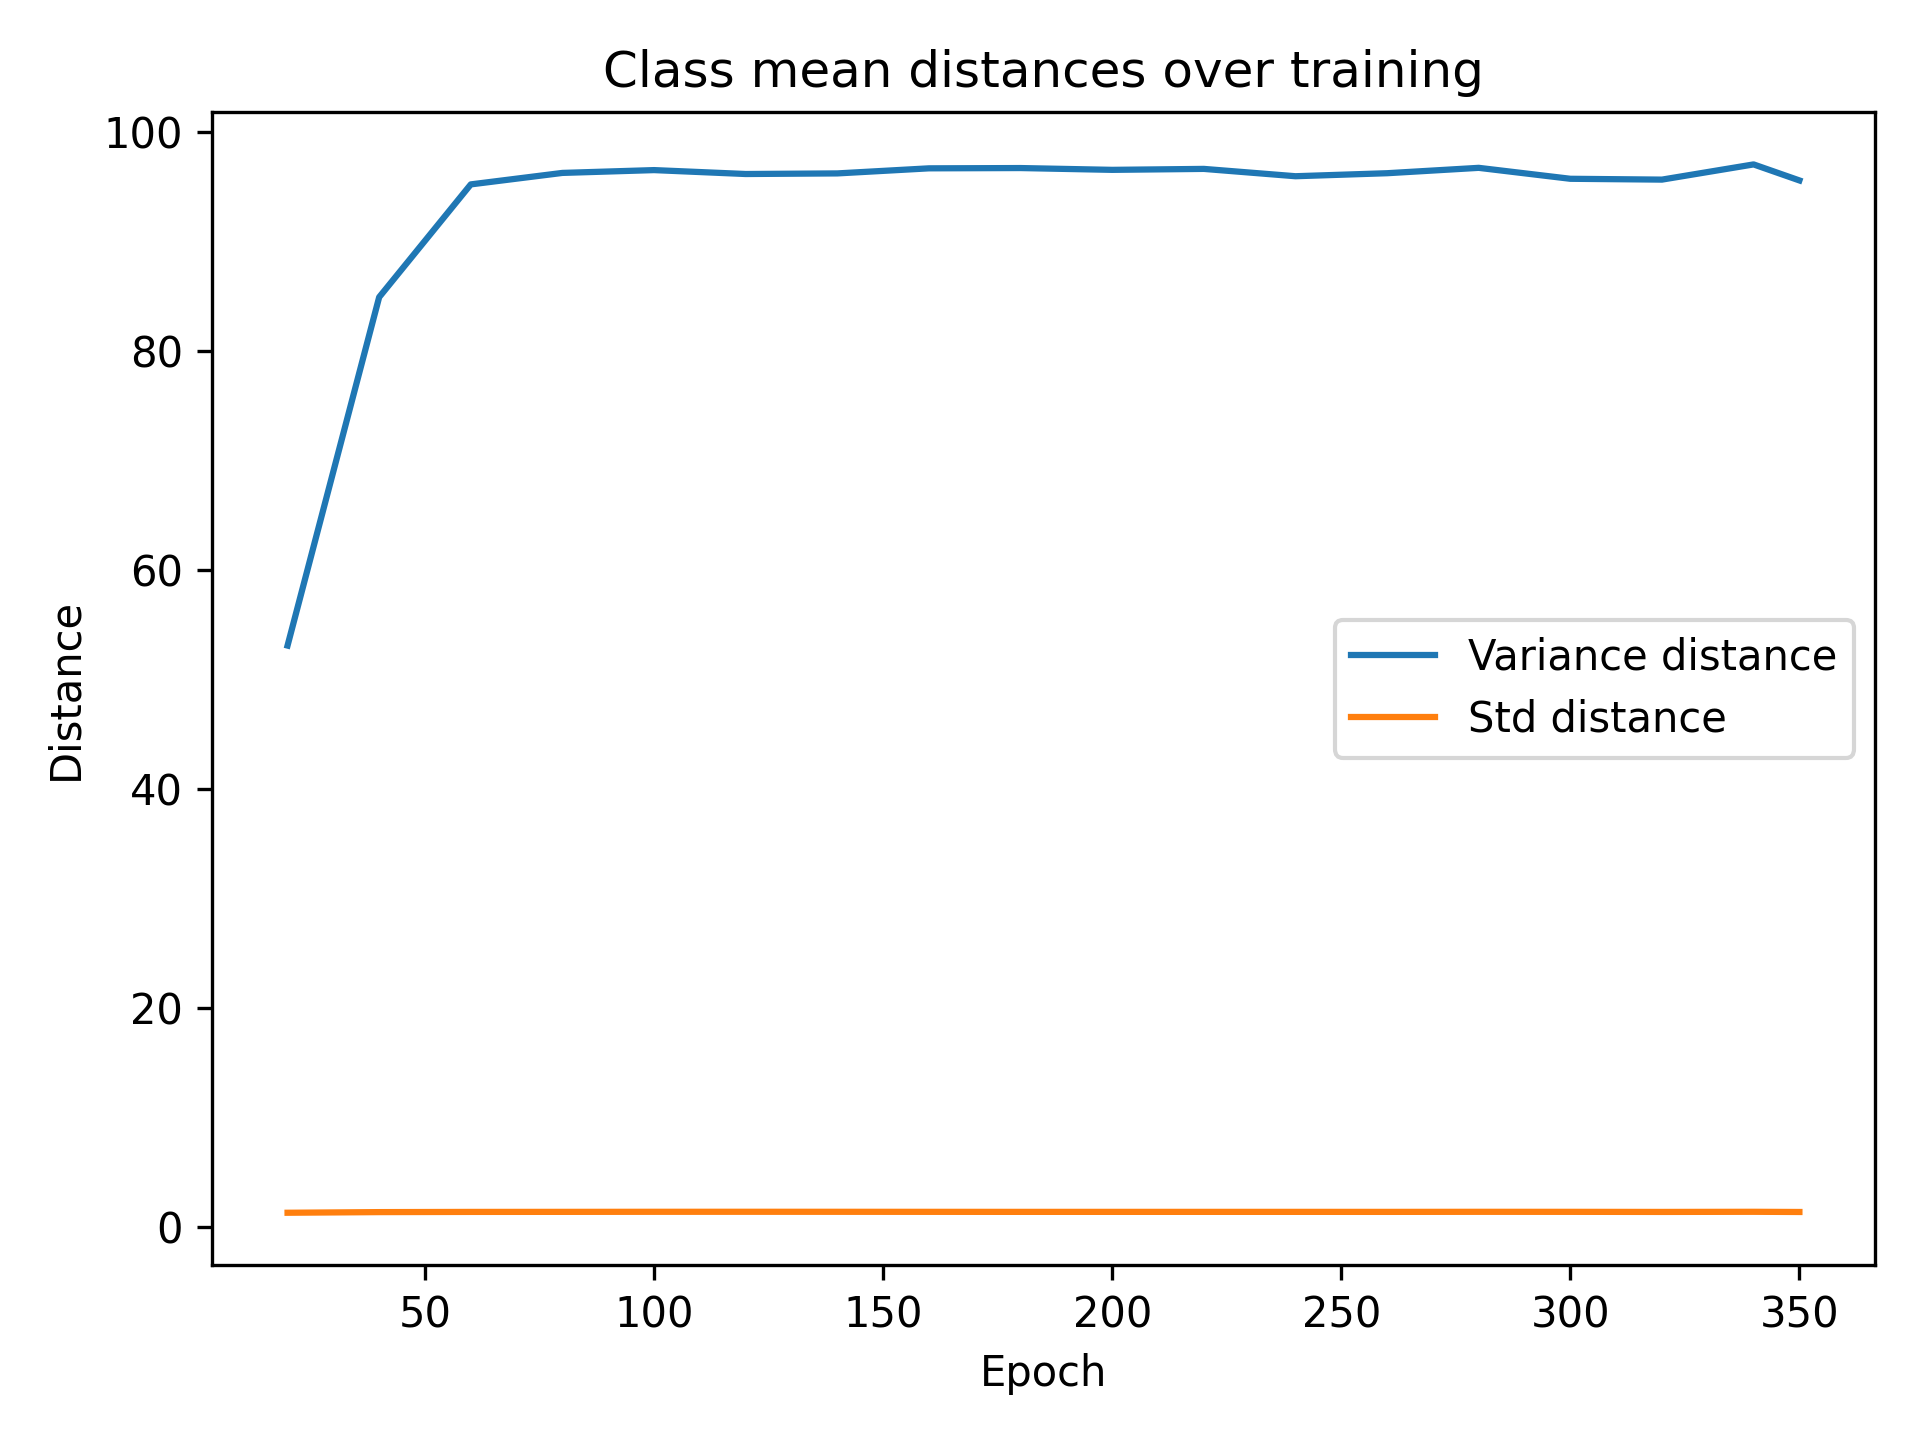
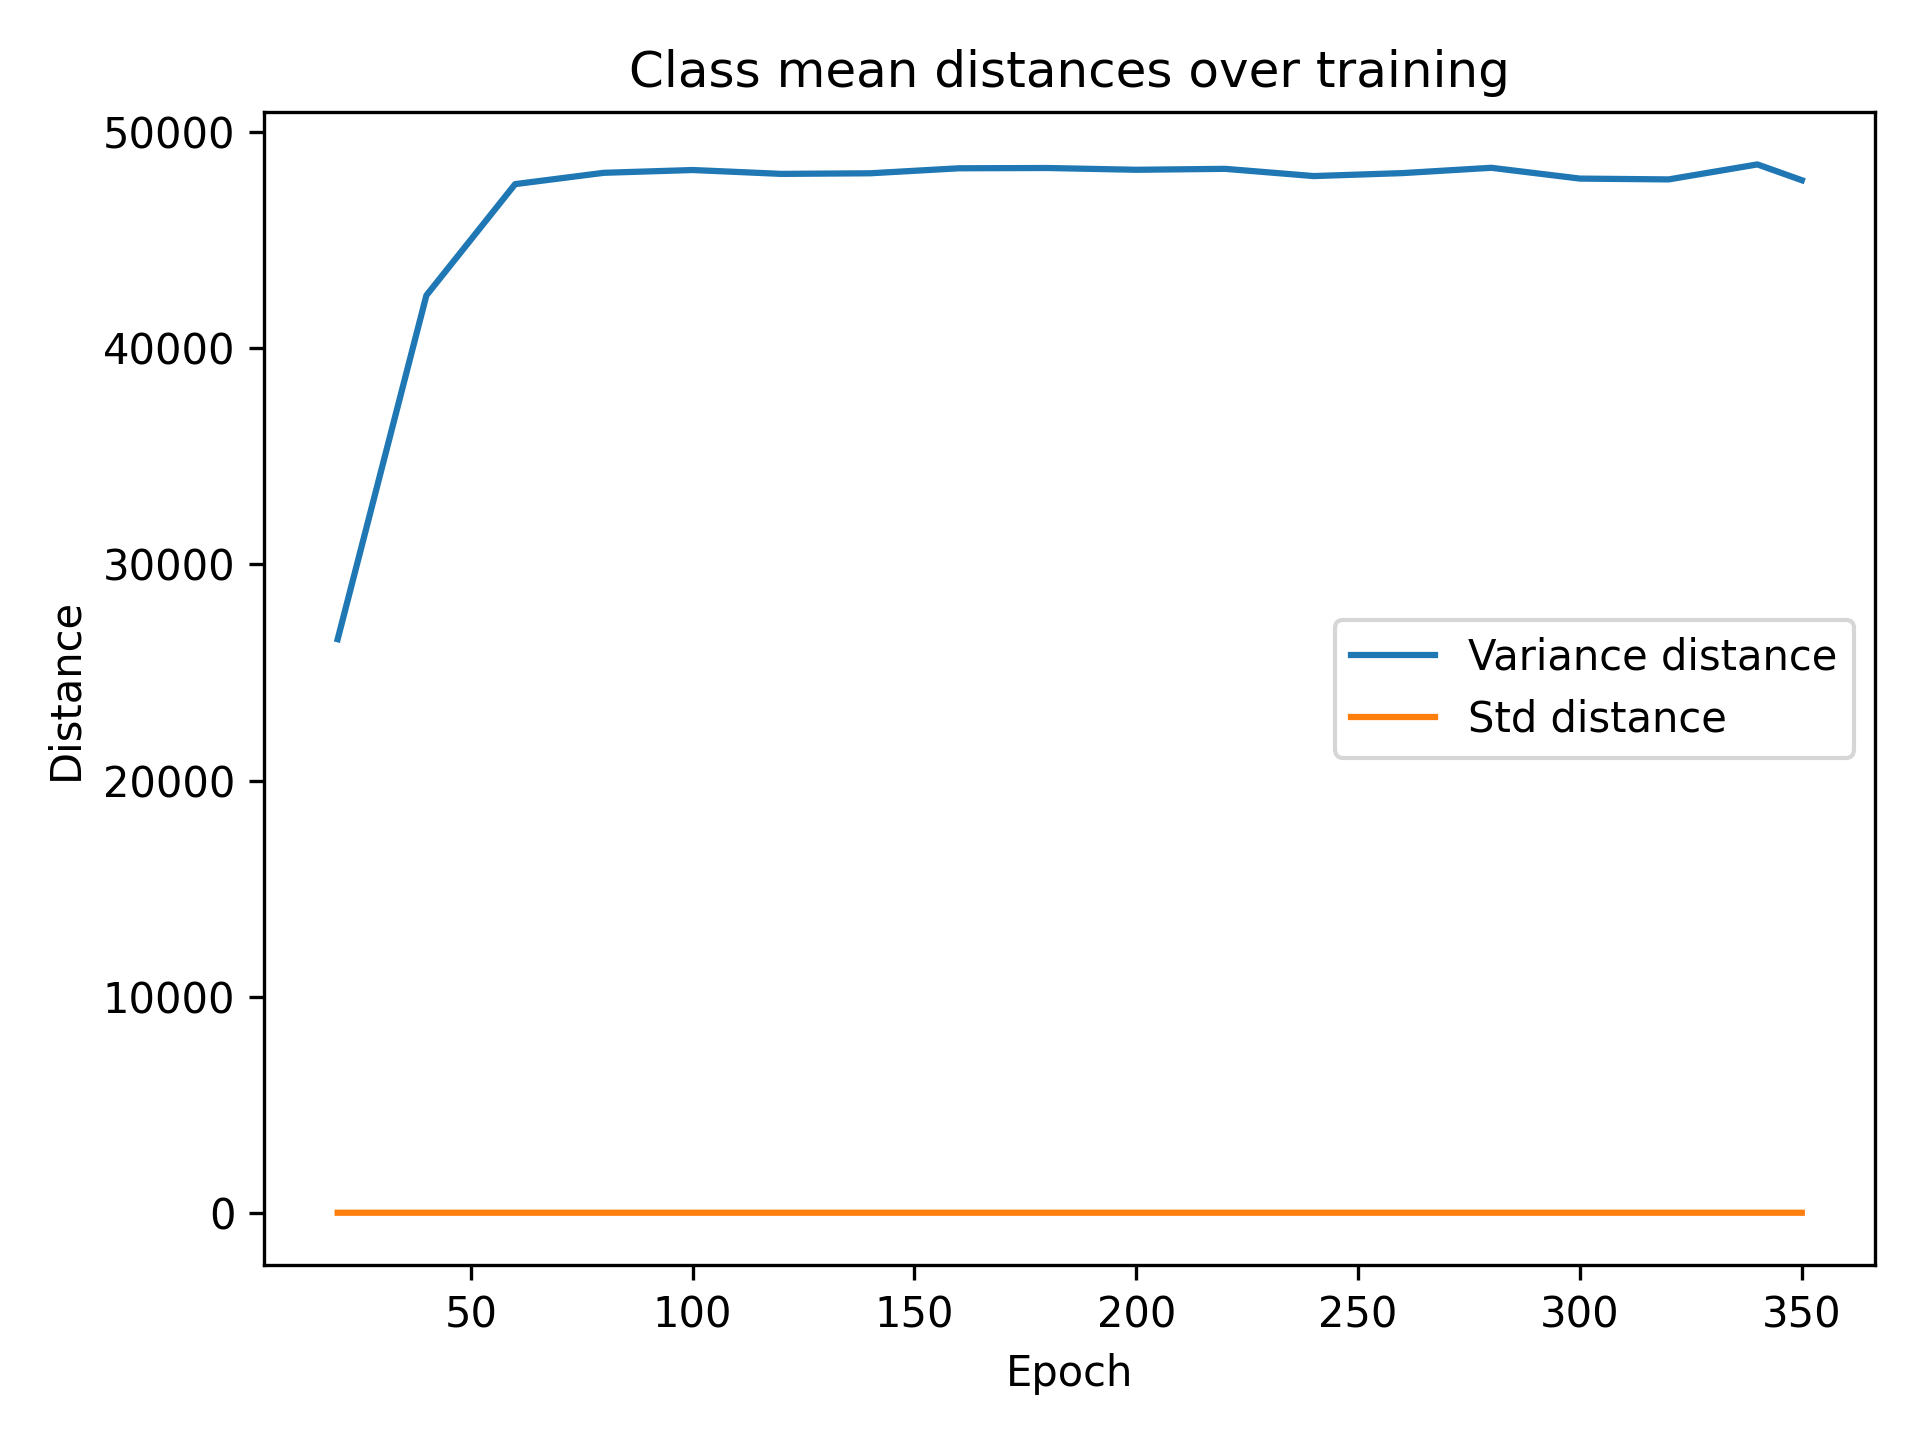
try fix: metrics

diff --git a/src/analyse.py b/src/analyse.py
@@ -38,10 +38,15 @@ epochs = []
 checkpoint_folder = "src/checkpoints"
 cp_file_names = os.listdir(checkpoint_folder)
 
-print(cp_file_names)
+print(f"Found {len(cp_file_names)} checkpoint files")
+print("="*80)
+
 distance_means_dict = {}
 std_means_dict = {}
 wt_class_var = {}
+mean_distances_dict = {}
+min_distances_dict = {}
+max_distances_dict = {}
 
 for cp_file in cp_file_names:
     checkpoint_file = os.path.join(checkpoint_folder, cp_file)
@@ -61,8 +66,11 @@ for cp_file in cp_file_names:
             labels_list.append(y)
 
     features = torch.cat(features_list)  # [N, d] [50000, 512] for cifar-100
-    labels = torch.cat(labels_list)      # [N] ([50000]
+    labels = torch.cat(labels_list)      # [N] ([50000])
 
+    print(f"\nEpoch {epoch}:")
+    print(f"  Features shape: {features.shape}")
+    print(f"  Labels shape: {labels.shape}")
 
     # Class Means Distances (NC2) --> Simplex ETF Structure
     num_classes = labels.max().item() + 1
@@ -76,65 +84,150 @@ for cp_file in cp_file_names:
             continue
         class_means[c] = features[idx].mean(dim=0)
 
+    # NC2: Analyze class mean distances
     dist_matrix = torch.cdist(class_means, class_means, p=2) # Class mean distance for 1 epoch [C, C]
-    print(f"dist_matrix: {dist_matrix}")
     pairwise_distances = dist_matrix[torch.triu(torch.ones_like(dist_matrix), diagonal=1).bool()] # Upper triangle
-    std_dist  = pairwise_distances.std() # Since everyone tends to the same value: std-->0
-    print(f"pairwise: {pairwise_distances}")
-    print(f"std dist: {std_dist}")
-    # Within class variance (NC1) --> Variability Collapse Sum(W) = 0
+    
+    mean_dist = pairwise_distances.mean()
+    std_dist = pairwise_distances.std()
+    min_dist = pairwise_distances.min()
+    max_dist = pairwise_distances.max()
+    cv_dist = std_dist / mean_dist  # Coefficient of variation
+    
+    print(f"\n  NC2 Metrics (Class Mean Distances):")
+    print(f"    Mean pairwise distance: {mean_dist:.4f}")
+    print(f"    Std of distances: {std_dist:.4f}")
+    print(f"    Min distance: {min_dist:.4f}")
+    print(f"    Max distance: {max_dist:.4f}")
+    print(f"    Coefficient of variation: {cv_dist:.4f}")
+    print(f"    Range (max-min): {(max_dist - min_dist):.4f}")
+    
+    # Within class variance (NC1) --> Variability Collapse
+    # FIXED: The issue was here - you were using .mean() which averages over BOTH dimensions
+    # This gives you average variance per class, not per dimension per sample
     within_class_var = 0.0
 
     for c in range(num_classes):
         idx = labels == c
         if idx.sum() == 0:
             continue
-        z_c = features[idx]                 # [N_c, d]
-        mu_c = class_means[c]               # [d]
-        within_class_var += ((z_c - mu_c)**2).sum() 
+        z_c = features[idx]                 # [N_c, d] all samples with d features
+        mu_c = class_means[c]               # [d] the mean for every d feature
+        
+        # Compute sum of squared deviations for this class
+        within_class_var += ((z_c - mu_c)**2).sum()
 
-    within_class_var /= num_classes
-    print(within_class_var)
-    wt_class_var[epoch] = within_class_var
+    # Normalize by total number of samples AND feature dimension
+    within_class_var /= (features.size(0) * d)
+    
+    print(f"\n  NC1 Metrics (Within-Class Variance):")
+    print(f"    Within-class variance (per dim per sample): {within_class_var:.6f}")
+    
+    # Additional diagnostic: compute global mean
+    global_mean = features.mean(dim=0)
+    total_var = ((features - global_mean)**2).sum() / (features.size(0) * d)
+    between_class_var = total_var - within_class_var
+    
+    print(f"    Total variance: {total_var:.6f}")
+    print(f"    Between-class variance: {between_class_var:.6f}")
+    print(f"    Within/Total ratio: {(within_class_var / total_var):.6f}")
+    
+    print("="*80)
+    
+    wt_class_var[epoch] = within_class_var.item()
     distance_means_dict[epoch] = pairwise_distances
-    std_means_dict[epoch] = std_dist
+    std_means_dict[epoch] = std_dist.item()
+    mean_distances_dict[epoch] = mean_dist.item()
+    min_distances_dict[epoch] = min_dist.item()
+    max_distances_dict[epoch] = max_dist.item()
 
+# Sort everything by epoch
 ordered_std = {k:v for k,v in sorted(std_means_dict.items(), key=lambda item:item[0])}
 ordered_pairwise = {k:v for k,v in sorted(distance_means_dict.items(), key=lambda item:item[0])}
 ordered_var = {k:v for k,v in sorted(wt_class_var.items(), key=lambda item:item[0])}
+ordered_mean_dist = {k:v for k,v in sorted(mean_distances_dict.items(), key=lambda item:item[0])}
+ordered_min_dist = {k:v for k,v in sorted(min_distances_dict.items(), key=lambda item:item[0])}
+ordered_max_dist = {k:v for k,v in sorted(max_distances_dict.items(), key=lambda item:item[0])}
 
 stds = list(ordered_std.values())
 wt_var = list(ordered_var.values())
 pairs = list(ordered_pairwise.values())
+mean_dists = list(ordered_mean_dist.values())
+min_dists = list(ordered_min_dist.values())
+max_dists = list(ordered_max_dist.values())
 epochs.sort()
-import matplotlib.pyplot as plt
 
-plt.figure()
-plt.plot(epochs, wt_var, label="Variance distance")
-plt.plot(epochs, stds, label="Std distance")
-plt.xlabel("Epoch")
-plt.ylabel("Distance")
-plt.title("Class mean distances over training")
-plt.legend()
-plt.show()
+# Plot 1: NC1 and NC2 metrics over time
+fig, axes = plt.subplots(2, 2, figsize=(14, 10))
 
-plot_path = "src/plots/evolution_dist.png"
+# NC1: Within-class variance
+axes[0, 0].plot(epochs, wt_var, 'b-', linewidth=2, marker='o')
+axes[0, 0].set_xlabel("Epoch", fontsize=12)
+axes[0, 0].set_ylabel("Within-class variance", fontsize=12)
+axes[0, 0].set_title("NC1: Within-Class Variability Collapse", fontsize=14, fontweight='bold')
+axes[0, 0].grid(True, alpha=0.3)
+axes[0, 0].set_yscale('log')  # Log scale often better for variance
+
+# NC2: Std of distances (should go to 0)
+axes[0, 1].plot(epochs, stds, 'r-', linewidth=2, marker='o')
+axes[0, 1].set_xlabel("Epoch", fontsize=12)
+axes[0, 1].set_ylabel("Std of pairwise distances", fontsize=12)
+axes[0, 1].set_title("NC2: Distance Uniformity (should → 0)", fontsize=14, fontweight='bold')
+axes[0, 1].grid(True, alpha=0.3)
+
+# NC2: Mean distance (should stabilize)
+axes[1, 0].plot(epochs, mean_dists, 'g-', linewidth=2, marker='o', label='Mean')
+axes[1, 0].fill_between(epochs, min_dists, max_dists, alpha=0.3, label='Min-Max range')
+axes[1, 0].set_xlabel("Epoch", fontsize=12)
+axes[1, 0].set_ylabel("Distance", fontsize=12)
+axes[1, 0].set_title("NC2: Mean Pairwise Distance", fontsize=14, fontweight='bold')
+axes[1, 0].legend()
+axes[1, 0].grid(True, alpha=0.3)
+
+# Coefficient of variation
+cv = [s/m for s, m in zip(stds, mean_dists)]
+axes[1, 1].plot(epochs, cv, 'm-', linewidth=2, marker='o')
+axes[1, 1].set_xlabel("Epoch", fontsize=12)
+axes[1, 1].set_ylabel("Coefficient of Variation", fontsize=12)
+axes[1, 1].set_title("NC2: CV = Std/Mean (should → 0)", fontsize=14, fontweight='bold')
+axes[1, 1].grid(True, alpha=0.3)
+
 plt.tight_layout()
-plt.savefig(plot_path, dpi=300)
+plot_path = "src/plots/nc_metrics.png"
+plt.savefig(plot_path, dpi=300, bbox_inches='tight')
 plt.close()
+print(f"\nSaved NC metrics plot to {plot_path}")
 
-
+# Plot 2: Distribution of pairwise distances (boxplot)
 data = [d.cpu().numpy() for d in pairs]
 
-plt.figure(figsize=(10,4))
-plt.boxplot(data, positions=epochs, showfliers=False)
-plt.xlabel("Epoch")
-plt.ylabel("Class mean distance")
-plt.title("Distribution of class mean distances")
-plt.show()
-
-
-plot_path = "src/plots/simplex.png"
+plt.figure(figsize=(12, 6))
+plt.boxplot(data, positions=epochs, showfliers=False, widths=5)
+plt.xlabel("Epoch", fontsize=12)
+plt.ylabel("Pairwise class mean distance", fontsize=12)
+plt.title("Distribution of Class Mean Distances Over Training", fontsize=14, fontweight='bold')
+plt.grid(True, alpha=0.3, axis='y')
 plt.tight_layout()
-plt.savefig(plot_path, dpi=300)
+
+plot_path = "src/plots/simplex_boxplot.png"
+plt.savefig(plot_path, dpi=300, bbox_inches='tight')
 plt.close()
+print(f"Saved boxplot to {plot_path}")
+
+# Summary statistics
+print("\n" + "="*80)
+print("SUMMARY:")
+print("="*80)
+print(f"Epochs analyzed: {min(epochs)} to {max(epochs)}")
+print(f"\nNC1 (Within-class variance):")
+print(f"  Initial (epoch {min(epochs)}): {wt_var[0]:.6f}")
+print(f"  Final (epoch {max(epochs)}): {wt_var[-1]:.6f}")
+print(f"  Reduction: {(1 - wt_var[-1]/wt_var[0])*100:.2f}%")
+print(f"\nNC2 (Distance std):")
+print(f"  Initial (epoch {min(epochs)}): {stds[0]:.4f}")
+print(f"  Final (epoch {max(epochs)}): {stds[-1]:.4f}")
+print(f"  Reduction: {(1 - stds[-1]/stds[0])*100:.2f}%")
+print(f"\nNC2 (Coefficient of variation):")
+print(f"  Initial (epoch {min(epochs)}): {cv[0]:.4f}")
+print(f"  Final (epoch {max(epochs)}): {cv[-1]:.4f}")
+print("="*80)
